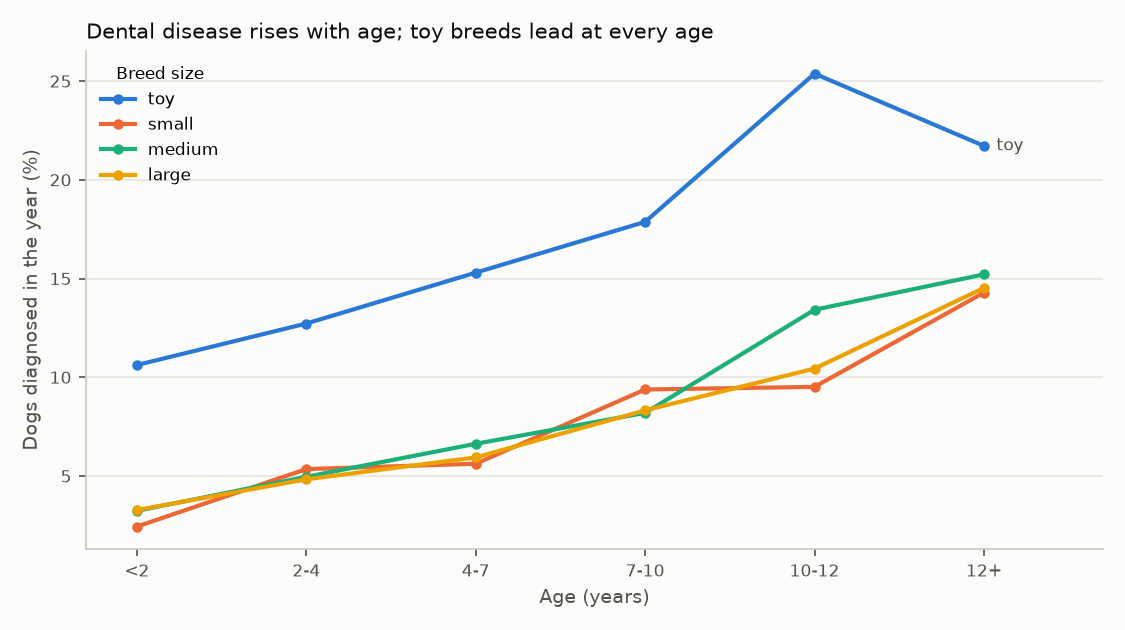
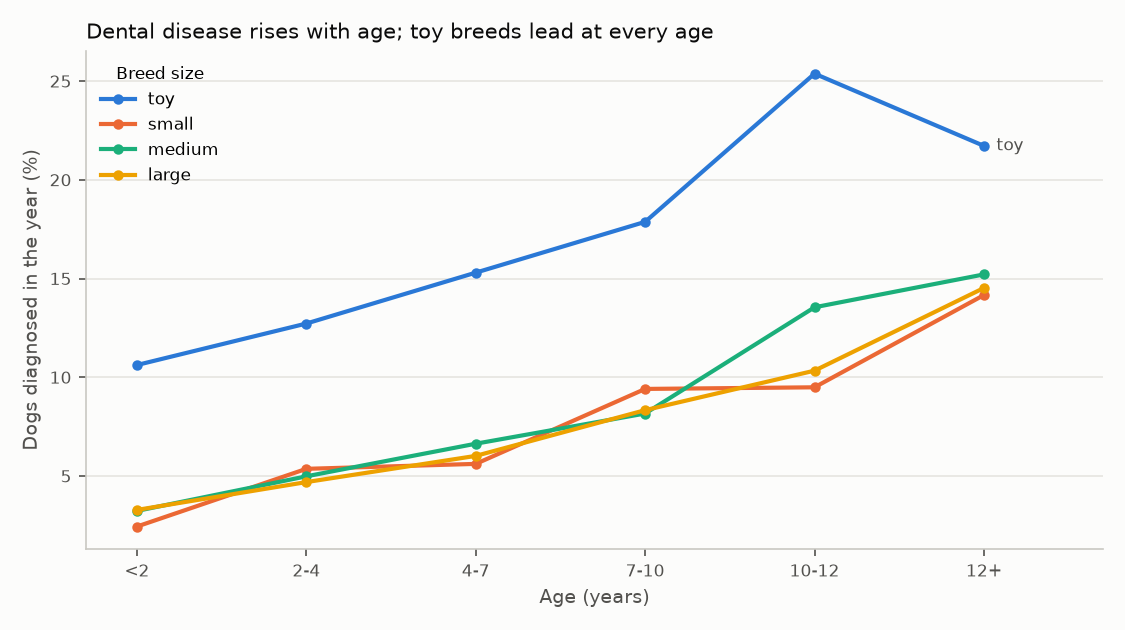
Redraw the oral health chart from a rerun of the oral health model
Rerunning tailsignal.models.oral_health on the current warehouse moves the toy-breed odds ratio's
lower bound from 2.17 to 2.18; the paper now quotes 2.49 (2.18-2.85). The other oral-health figures
the site cites (9.4%, 3.8%, 15.4%, 46%) are unchanged at the precision quoted.

Changed region(s): [[0.1556, 0.4222, 0.8711, 0.8143], [0.6844, 0.4825, 0.7467, 0.5429], [0.6533, 0.5429, 0.6844, 0.573]]

diff --git a/docs/projects/tailsignal/paper.md b/docs/projects/tailsignal/paper.md
@@ -447,7 +447,7 @@ Six of nine clinics have 90% rank intervals spanning four or more positions.
 ### 5.6 Oral health
 
 On the platform layer, 9.4% of dogs seen per year were diagnosed with dental disease (95% CI 9.1–9.8%); toy breeds had 2.5 times the
-odds after adjusting for age (OR 2.49, 2.17–2.85); prevalence rose from 3.8% under age 2 to 15.4% at 12 and over; 46% of
+odds after adjusting for age (OR 2.49, 2.18–2.85); prevalence rose from 3.8% under age 2 to 15.4% at 12 and over; 46% of
 diagnosed dogs had a cleaning the same year. Comparison with Banfield and VetCompass exposed four simulator gaps
 (small-breed risk, overweight link, detection at wellness exams, clinic charting differences). Re-run on the EHR
 layer's dental records (25,331 dog-years), the overweight gap closes (adjusted OR 1.60 vs. published 1.65–2.23) and the
